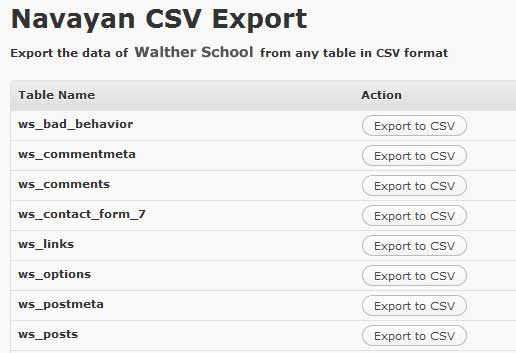
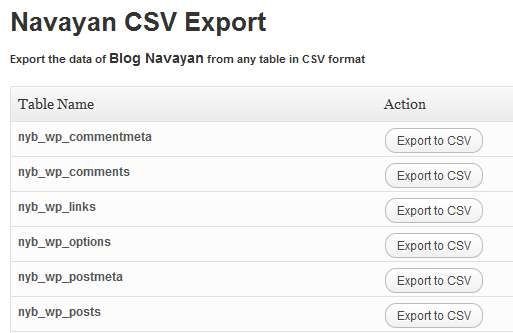
Fixed double quote glitch and updated screenshots
git-svn-id: https://plugins.svn.wordpress.org/navayan-csv-export/trunk@410580 b8457f37-d9ea-0310-8a92-e5e31aec5664

diff --git a/ny-csv-generate.php b/ny-csv-generate.php
@@ -3,8 +3,11 @@
 ob_clean();
 
 function escapeCSV($str){
-	# if , exist then "$str"
-	if(strpos($str, ',') !== false){
+	# if , or " exist then "$str"
+	if(strpos($str, '""') !== false){
+		$str =  '"'. $str .'"';
+	}elseif(strpos($str, ',') !== false || strpos($str, '"') !== false){
+		$str = str_replace('"', '""', $str);
 		$str =  '"'. $str .'"';
 	}
 
@@ -41,7 +44,7 @@ function fn_ny_csv_gen($table_name){
 		# GET FIELDS VALUES WITH LAST COMMA EXCLUDED
 		foreach($result as $row){
 			for($s = 0; $s < $fields_num; $s++){
-				if($s == 0) $fields .= "\n";	  
+				if($s == 0) $fields .= "\n";
 				$fields .= escapeCSV($row -> $each_field[$s]);
 			}
 			$fields = substr_replace($fields, '', -1);
